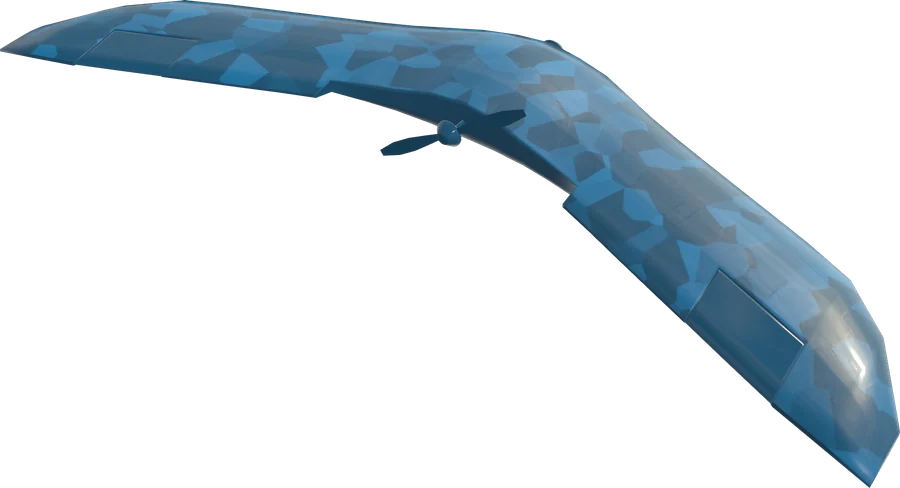
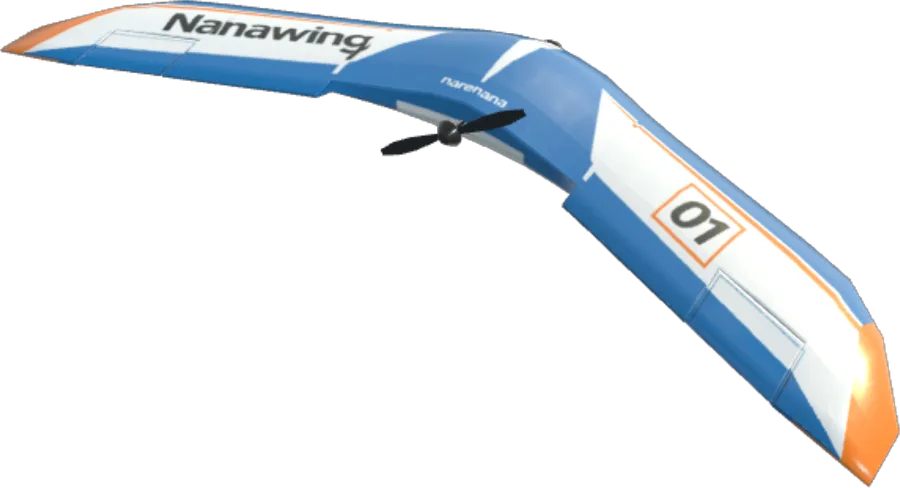
Refresh Nanawing One aircraft images with approved blue race livery

Changed region(s): [[0.0, 0.0, 1.0, 1.0]]

diff --git a/site/nanawing/aircraft/index.html b/site/nanawing/aircraft/index.html
@@ -1,8 +1,8 @@
-<!doctype html><html lang="en"><head><meta charset="utf-8"><script>if(location.hostname==='www.narenana.com'){var ga=document.createElement('script');ga.async=true;ga.src='https://www.googletagmanager.com/gtag/js?id=G-1KY518LPBH';document.head.appendChild(ga);window.dataLayer=window.dataLayer||[];function gtag(){dataLayer.push(arguments)}gtag('js',new Date());gtag('config','G-1KY518LPBH')}</script><meta name="viewport" content="width=device-width,initial-scale=1"><title>Nanawing aircraft | Pick your wing and fly it free | narenana</title><meta name="description" content="Fly free in your browser or on your phone: start on a trainer, thread the WUDFLY Spectre through giant oaks, or snap the TBS Chupito (Team BlackSheep) round at 360°/s."><meta name="robots" content="index,follow,max-image-preview:large"><link rel="canonical" href="https://www.narenana.com/nanawing/aircraft/"><meta name="theme-color" content="#087bc1"><link rel="icon" href="/assets/avatar.jpg?v=49424a6497"><meta property="og:type" content="website"><meta property="og:site_name" content="narenana"><meta property="og:title" content="Nanawing: fly the WUDFLY Spectre free"><meta property="og:description" content="Thread the 3D-printed, twin-motor WUDFLY Spectre through giant oaks, then try 5 more aircraft. Free in your browser or on your phone."><meta property="og:url" content="https://www.narenana.com/nanawing/aircraft/"><meta property="og:image" content="https://www.narenana.com/nanawing/aircraft/spectre-share-v2.jpg"><meta name="twitter:card" content="summary_large_image"><meta name="twitter:title" content="Nanawing: fly the WUDFLY Spectre free"><meta name="twitter:description" content="Thread the 3D-printed, twin-motor WUDFLY Spectre through giant oaks, then try 5 more aircraft. Free in your browser or on your phone."><meta name="twitter:image" content="https://www.narenana.com/nanawing/aircraft/spectre-share-v2.jpg"><meta property="og:image:alt" content="The WUDFLY Spectre, a white and yellow twin-motor wing, on a blue card that reads: Fly the WUDFLY Spectre. Thread it through giant oaks, then race it on Estate Run."><meta name="twitter:image:alt" content="The WUDFLY Spectre, a white and yellow twin-motor wing, on a blue card that reads: Fly the WUDFLY Spectre. Thread it through giant oaks, then race it on Estate Run."><link rel="stylesheet" href="/assets/family/fonts.css?v=c848c473a8"><link rel="stylesheet" href="/assets/editorial.css?v=f64f49da02"><link rel="stylesheet" href="/assets/family/shell.css?v=dfbc6fd384"><script type="application/ld+json">{"@context":"https://schema.org","@graph":[{"@type":"WebPage","@id":"https://www.narenana.com/nanawing/aircraft/","url":"https://www.narenana.com/nanawing/aircraft/","name":"Nanawing aircraft | Pick your wing and fly it free","description":"Fly free in your browser or on your phone: start on a trainer, thread the WUDFLY Spectre through giant oaks, or snap the TBS Chupito (Team BlackSheep) round at 360°/s.","isPartOf":{"@id":"https://www.narenana.com/#website"},"about":{"@id":"https://sim.narenana.com/#app"}},{"@type":"BreadcrumbList","itemListElement":[{"@type":"ListItem","position":1,"name":"Home","item":"https://www.narenana.com/"},{"@type":"ListItem","position":2,"name":"Nanawing aircraft","item":"https://www.narenana.com/nanawing/aircraft/"}]},{"@type":"ItemList","name":"Nanawing aircraft","itemListElement":[{"@type":"ListItem","position":1,"name":"WUDFLY Spectre","url":"https://www.narenana.com/nanawing/aircraft/#spectre","image":"https://www.narenana.com/assets/nanawing/aircraft/spectre-photo-1200.webp?v=4365a38855"},{"@type":"ListItem","position":2,"name":"Nanawing One","url":"https://www.narenana.com/nanawing/aircraft/#desertwing","image":"https://www.narenana.com/assets/nanawing/aircraft/desertwing-1400.webp?v=2f3e75815e"},{"@type":"ListItem","position":3,"name":"Morok UAV","url":"https://www.narenana.com/nanawing/aircraft/#morok","image":"https://www.narenana.com/assets/nanawing/aircraft/morok-1400.webp?v=7be7a0a8c3"},{"@type":"ListItem","position":4,"name":"Sukhoi S-70 Okhotnik","url":"https://www.narenana.com/nanawing/aircraft/#sukhoi","image":"https://www.narenana.com/assets/nanawing/aircraft/sukhoi-1400.webp?v=fbcd52112d"},{"@type":"ListItem","position":5,"name":"TBS Chupito","url":"https://www.narenana.com/nanawing/aircraft/#chupito","image":"https://www.narenana.com/assets/nanawing/aircraft/chupito-1400.webp?v=29c97fc30d"},{"@type":"ListItem","position":6,"name":"Darkwing","url":"https://www.narenana.com/nanawing/aircraft/#darkwing","image":"https://www.narenana.com/assets/nanawing/aircraft/darkwing-1400.webp?v=8d6f057a6d"}]},{"@type":"FAQPage","mainEntity":[{"@type":"Question","name":"How does this help me at the RC field?","acceptedAnswer":{"@type":"Answer","text":"Practise stick inputs, throttle management and planning your turns, and feel how different aircraft respond."}},{"@type":"Question","name":"Which Nanawing aircraft should I fly first?","acceptedAnswer":{"@type":"Answer","text":"Start with the Nanawing One if you are learning the controls. Try the WUDFLY Spectre for tight gaps and yaw. Move to the Morok and Sukhoi to feel how more speed changes your timing, to the TBS Chupito for the quickest roll in the hangar, and to the Darkwing for speed that builds in a hurry. Every aircraft is free, so you can try them all."}},{"@type":"Question","name":"Are the WUDFLY Spectre, the TBS Chupito and the Darkwing in Nanawing the real aircraft?","acceptedAnswer":{"@type":"Answer","text":"No. They're our recreations of WUDFLY's, Team BlackSheep's and Anirudh's wings. The WUDFLY Spectre keeps the real wing's 600mm span, twin motors and white and yellow colours; the TBS Chupito keeps its 800mm span and single pusher prop; the Darkwing keeps its glossy black 3D-printed airframe and twin counter-rotating props. Their handling is a simulator approximation, and the TBS Chupito's is not TBS flight data; the Darkwing's is tuned from flights of the real aircraft. WUDFLY designs and sells the real Spectre at wudfly.com, Team BlackSheep sells the real Chupito at team-blacksheep.com, and Anirudh designed the real Darkwing (instagram.com/anirud.aero)."}},{"@type":"Question","name":"Which aircraft race which course?","acceptedAnswer":{"@type":"Answer","text":"All 6 aircraft race Windmill Run and River Run on the Island, and Tunnel Run and Pyramid Run in the Desert. Take the WUDFLY Spectre or the TBS Chupito to Parkland for Estate Run. Race the pilots flying your wing: set a time, see where you rank, then go back and beat it."}},{"@type":"Question","name":"Do I need a gamepad or RC radio?","acceptedAnswer":{"@type":"Answer","text":"No. All 6 fly on a keyboard or on your phone's thumb sticks. A gamepad or USB RC radio works too: plug it in and set it up in the Hangar's Controls tab. To yaw the WUDFLY Spectre, use a gamepad, an RC radio or your phone's left stick."}}]}]}</script><link rel="stylesheet" href="/assets/nanawing-aircraft.css?v=862eb507d2"></head><body><a class="skip" href="#main">Skip to content</a><header class="nn-header"><div class="nn-bar"><a class="nn-brand" href="/" aria-label="narenana home"><img src="/assets/family/avatar.jpg?v=49424a6497" width="40" height="40" alt="">narenana<span>.</span></a><nav class="nn-desktop" aria-label="Products"><a href="https://sim.narenana.com/"><span>Nanawing</span><small>FPV simulator</small></a><a href="https://nanawing2.narenana.com/"><span>Nanawing 2</span><small>Line-of-sight simulator</small></a><a href="/wings/"><span>Wings</span><small>Compare RC plane prices</small></a><a href="/log-viewer/"><span>Log viewer</span><small>Replay your flight logs</small></a></nav><a class="nn-contact" href="/#contact">Get in touch ↗</a><details class="nn-mobile"><summary>Menu</summary><nav aria-label="Products"><a href="https://sim.narenana.com/"><span>Nanawing</span><small>FPV simulator</small></a><a href="https://nanawing2.narenana.com/"><span>Nanawing 2</span><small>Line-of-sight simulator</small></a><a href="/wings/"><span>Wings</span><small>Compare RC plane prices</small></a><a href="/log-viewer/"><span>Log viewer</span><small>Replay your flight logs</small></a><a href="/#contact"><span>Get in touch ↗</span><small>Meet the pilot</small></a></nav></details></div></header><main id="main"><div class="ac-page">
+<!doctype html><html lang="en"><head><meta charset="utf-8"><script>if(location.hostname==='www.narenana.com'){var ga=document.createElement('script');ga.async=true;ga.src='https://www.googletagmanager.com/gtag/js?id=G-1KY518LPBH';document.head.appendChild(ga);window.dataLayer=window.dataLayer||[];function gtag(){dataLayer.push(arguments)}gtag('js',new Date());gtag('config','G-1KY518LPBH')}</script><meta name="viewport" content="width=device-width,initial-scale=1"><title>Nanawing aircraft | Pick your wing and fly it free | narenana</title><meta name="description" content="Fly free in your browser or on your phone: start on a trainer, thread the WUDFLY Spectre through giant oaks, or snap the TBS Chupito (Team BlackSheep) round at 360°/s."><meta name="robots" content="index,follow,max-image-preview:large"><link rel="canonical" href="https://www.narenana.com/nanawing/aircraft/"><meta name="theme-color" content="#087bc1"><link rel="icon" href="/assets/avatar.jpg?v=49424a6497"><meta property="og:type" content="website"><meta property="og:site_name" content="narenana"><meta property="og:title" content="Nanawing: fly the WUDFLY Spectre free"><meta property="og:description" content="Thread the 3D-printed, twin-motor WUDFLY Spectre through giant oaks, then try 5 more aircraft. Free in your browser or on your phone."><meta property="og:url" content="https://www.narenana.com/nanawing/aircraft/"><meta property="og:image" content="https://www.narenana.com/nanawing/aircraft/spectre-share-v2.jpg"><meta name="twitter:card" content="summary_large_image"><meta name="twitter:title" content="Nanawing: fly the WUDFLY Spectre free"><meta name="twitter:description" content="Thread the 3D-printed, twin-motor WUDFLY Spectre through giant oaks, then try 5 more aircraft. Free in your browser or on your phone."><meta name="twitter:image" content="https://www.narenana.com/nanawing/aircraft/spectre-share-v2.jpg"><meta property="og:image:alt" content="The WUDFLY Spectre, a white and yellow twin-motor wing, on a blue card that reads: Fly the WUDFLY Spectre. Thread it through giant oaks, then race it on Estate Run."><meta name="twitter:image:alt" content="The WUDFLY Spectre, a white and yellow twin-motor wing, on a blue card that reads: Fly the WUDFLY Spectre. Thread it through giant oaks, then race it on Estate Run."><link rel="stylesheet" href="/assets/family/fonts.css?v=c848c473a8"><link rel="stylesheet" href="/assets/editorial.css?v=f64f49da02"><link rel="stylesheet" href="/assets/family/shell.css?v=dfbc6fd384"><script type="application/ld+json">{"@context":"https://schema.org","@graph":[{"@type":"WebPage","@id":"https://www.narenana.com/nanawing/aircraft/","url":"https://www.narenana.com/nanawing/aircraft/","name":"Nanawing aircraft | Pick your wing and fly it free","description":"Fly free in your browser or on your phone: start on a trainer, thread the WUDFLY Spectre through giant oaks, or snap the TBS Chupito (Team BlackSheep) round at 360°/s.","isPartOf":{"@id":"https://www.narenana.com/#website"},"about":{"@id":"https://sim.narenana.com/#app"}},{"@type":"BreadcrumbList","itemListElement":[{"@type":"ListItem","position":1,"name":"Home","item":"https://www.narenana.com/"},{"@type":"ListItem","position":2,"name":"Nanawing aircraft","item":"https://www.narenana.com/nanawing/aircraft/"}]},{"@type":"ItemList","name":"Nanawing aircraft","itemListElement":[{"@type":"ListItem","position":1,"name":"WUDFLY Spectre","url":"https://www.narenana.com/nanawing/aircraft/#spectre","image":"https://www.narenana.com/assets/nanawing/aircraft/spectre-photo-1200.webp?v=4365a38855"},{"@type":"ListItem","position":2,"name":"Nanawing One","url":"https://www.narenana.com/nanawing/aircraft/#desertwing","image":"https://www.narenana.com/assets/nanawing/aircraft/desertwing-1400.webp?v=f5a654329e"},{"@type":"ListItem","position":3,"name":"Morok UAV","url":"https://www.narenana.com/nanawing/aircraft/#morok","image":"https://www.narenana.com/assets/nanawing/aircraft/morok-1400.webp?v=7be7a0a8c3"},{"@type":"ListItem","position":4,"name":"Sukhoi S-70 Okhotnik","url":"https://www.narenana.com/nanawing/aircraft/#sukhoi","image":"https://www.narenana.com/assets/nanawing/aircraft/sukhoi-1400.webp?v=fbcd52112d"},{"@type":"ListItem","position":5,"name":"TBS Chupito","url":"https://www.narenana.com/nanawing/aircraft/#chupito","image":"https://www.narenana.com/assets/nanawing/aircraft/chupito-1400.webp?v=29c97fc30d"},{"@type":"ListItem","position":6,"name":"Darkwing","url":"https://www.narenana.com/nanawing/aircraft/#darkwing","image":"https://www.narenana.com/assets/nanawing/aircraft/darkwing-1400.webp?v=8d6f057a6d"}]},{"@type":"FAQPage","mainEntity":[{"@type":"Question","name":"How does this help me at the RC field?","acceptedAnswer":{"@type":"Answer","text":"Practise stick inputs, throttle management and planning your turns, and feel how different aircraft respond."}},{"@type":"Question","name":"Which Nanawing aircraft should I fly first?","acceptedAnswer":{"@type":"Answer","text":"Start with the Nanawing One if you are learning the controls. Try the WUDFLY Spectre for tight gaps and yaw. Move to the Morok and Sukhoi to feel how more speed changes your timing, to the TBS Chupito for the quickest roll in the hangar, and to the Darkwing for speed that builds in a hurry. Every aircraft is free, so you can try them all."}},{"@type":"Question","name":"Are the WUDFLY Spectre, the TBS Chupito and the Darkwing in Nanawing the real aircraft?","acceptedAnswer":{"@type":"Answer","text":"No. They're our recreations of WUDFLY's, Team BlackSheep's and Anirudh's wings. The WUDFLY Spectre keeps the real wing's 600mm span, twin motors and white and yellow colours; the TBS Chupito keeps its 800mm span and single pusher prop; the Darkwing keeps its glossy black 3D-printed airframe and twin counter-rotating props. Their handling is a simulator approximation, and the TBS Chupito's is not TBS flight data; the Darkwing's is tuned from flights of the real aircraft. WUDFLY designs and sells the real Spectre at wudfly.com, Team BlackSheep sells the real Chupito at team-blacksheep.com, and Anirudh designed the real Darkwing (instagram.com/anirud.aero)."}},{"@type":"Question","name":"Which aircraft race which course?","acceptedAnswer":{"@type":"Answer","text":"All 6 aircraft race Windmill Run and River Run on the Island, and Tunnel Run and Pyramid Run in the Desert. Take the WUDFLY Spectre or the TBS Chupito to Parkland for Estate Run. Race the pilots flying your wing: set a time, see where you rank, then go back and beat it."}},{"@type":"Question","name":"Do I need a gamepad or RC radio?","acceptedAnswer":{"@type":"Answer","text":"No. All 6 fly on a keyboard or on your phone's thumb sticks. A gamepad or USB RC radio works too: plug it in and set it up in the Hangar's Controls tab. To yaw the WUDFLY Spectre, use a gamepad, an RC radio or your phone's left stick."}}]}]}</script><link rel="stylesheet" href="/assets/nanawing-aircraft.css?v=862eb507d2"></head><body><a class="skip" href="#main">Skip to content</a><header class="nn-header"><div class="nn-bar"><a class="nn-brand" href="/" aria-label="narenana home"><img src="/assets/family/avatar.jpg?v=49424a6497" width="40" height="40" alt="">narenana<span>.</span></a><nav class="nn-desktop" aria-label="Products"><a href="https://sim.narenana.com/"><span>Nanawing</span><small>FPV simulator</small></a><a href="https://nanawing2.narenana.com/"><span>Nanawing 2</span><small>Line-of-sight simulator</small></a><a href="/wings/"><span>Wings</span><small>Compare RC plane prices</small></a><a href="/log-viewer/"><span>Log viewer</span><small>Replay your flight logs</small></a></nav><a class="nn-contact" href="/#contact">Get in touch ↗</a><details class="nn-mobile"><summary>Menu</summary><nav aria-label="Products"><a href="https://sim.narenana.com/"><span>Nanawing</span><small>FPV simulator</small></a><a href="https://nanawing2.narenana.com/"><span>Nanawing 2</span><small>Line-of-sight simulator</small></a><a href="/wings/"><span>Wings</span><small>Compare RC plane prices</small></a><a href="/log-viewer/"><span>Log viewer</span><small>Replay your flight logs</small></a><a href="/#contact"><span>Get in touch ↗</span><small>Meet the pilot</small></a></nav></details></div></header><main id="main"><div class="ac-page">
 <nav class="crumbs" aria-label="Breadcrumb"><a href="/">Home</a> / Nanawing aircraft</nav>
 <div class="ac-hero"><span class="eyebrow">NANAWING / FREE FPV SIMULATOR</span><h1>Pick your wing<br><span>and fly it free.</span></h1><p class="lede">Thread the 3D-printed WUDFLY Spectre through giant oaks, snap the TBS Chupito round at 360°/s, open the Sukhoi up to 323 km/h, carry the Darkwing's speed through wide turns, or settle in on a forgiving trainer before your next day at the field. All 6 fly free in your browser, on a laptop or on your phone. No install, no login.</p>
 <div class="ac-actions"><a class="ac-btn" href="https://sim.narenana.com/?play&amp;aircraft=spectre" target="_blank" rel="noopener">Start flying <span aria-hidden="true">↗</span></a><a class="ac-link" href="#compare">Compare the 6 aircraft <span aria-hidden="true">↓</span></a></div>
-<ul class="ac-lineup" aria-label="The 6 aircraft"><li><a href="#spectre"><img src="/assets/nanawing/aircraft/spectre-900.webp?v=7a7cc3f3dd" srcset="/assets/nanawing/aircraft/spectre-560.webp?v=c5f88ce574 560w, /assets/nanawing/aircraft/spectre-900.webp?v=7a7cc3f3dd 900w, /assets/nanawing/aircraft/spectre-1400.webp?v=3e78b52736 1400w" sizes="(max-width:859px) 46vw, 230px" alt="WUDFLY Spectre, a white and yellow twin-motor flying wing with SPECTRE and WUDFLY lettering" width="900" height="511" fetchpriority="high"><span class="ac-lineup-name">WUDFLY Spectre</span><span class="ac-lineup-role">Made for tight gaps</span></a></li><li><a href="#desertwing"><img src="/assets/nanawing/aircraft/desertwing-900.webp?v=6c56022542" srcset="/assets/nanawing/aircraft/desertwing-560.webp?v=a258e83f11 560w, /assets/nanawing/aircraft/desertwing-900.webp?v=6c56022542 900w, /assets/nanawing/aircraft/desertwing-1400.webp?v=2f3e75815e 1400w" sizes="(max-width:859px) 46vw, 230px" alt="Nanawing One, a blue flying wing with a single pusher prop" width="900" height="488" fetchpriority="high"><span class="ac-lineup-name">Nanawing One</span><span class="ac-lineup-role">Forgiving trainer</span></a></li><li><a href="#morok"><img src="/assets/nanawing/aircraft/morok-900.webp?v=6a83b1f494" srcset="/assets/nanawing/aircraft/morok-560.webp?v=bbaafd7eb1 560w, /assets/nanawing/aircraft/morok-900.webp?v=6a83b1f494 900w, /assets/nanawing/aircraft/morok-1400.webp?v=7be7a0a8c3 1400w" sizes="(max-width:859px) 46vw, 230px" alt="Morok UAV, a silver drone with a V-tail and a pusher prop" width="900" height="463" loading="lazy" decoding="async"><span class="ac-lineup-name">Morok UAV</span><span class="ac-lineup-role">Step up from the One</span></a></li><li><a href="#sukhoi"><img src="/assets/nanawing/aircraft/sukhoi-900.webp?v=2dbaad485b" srcset="/assets/nanawing/aircraft/sukhoi-560.webp?v=9e1e25080a 560w, /assets/nanawing/aircraft/sukhoi-900.webp?v=2dbaad485b 900w, /assets/nanawing/aircraft/sukhoi-1400.webp?v=fbcd52112d 1400w" sizes="(max-width:859px) 46vw, 230px" alt="Sukhoi S-70 Okhotnik, a grey, angular flying wing" width="900" height="675" loading="lazy" decoding="async"><span class="ac-lineup-name">Sukhoi S-70 Okhotnik</span><span class="ac-lineup-role">Fastest in the hangar</span></a></li><li><a href="#chupito"><img src="/assets/nanawing/aircraft/chupito-900.webp?v=db683fad38" srcset="/assets/nanawing/aircraft/chupito-560.webp?v=b57ab305ad 560w, /assets/nanawing/aircraft/chupito-900.webp?v=db683fad38 900w, /assets/nanawing/aircraft/chupito-1400.webp?v=29c97fc30d 1400w" sizes="(max-width:859px) 46vw, 230px" alt="TBS Chupito, a dark grey flying wing with a single fin, a red pusher prop and white logos and lettering" width="900" height="440" loading="lazy" decoding="async"><span class="ac-lineup-name">TBS Chupito</span><span class="ac-lineup-role">Quickest roll in the hangar</span></a></li><li><a href="#darkwing"><img src="/assets/nanawing/aircraft/darkwing-900.webp?v=65707d042b" srcset="/assets/nanawing/aircraft/darkwing-560.webp?v=f61c99f7dd 560w, /assets/nanawing/aircraft/darkwing-900.webp?v=65707d042b 900w, /assets/nanawing/aircraft/darkwing-1400.webp?v=8d6f057a6d 1400w" sizes="(max-width:859px) 46vw, 230px" alt="Darkwing, a glossy black 3D-printed flying wing with two blue pusher props" width="900" height="555" loading="lazy" decoding="async"><span class="ac-lineup-name">Darkwing</span><span class="ac-lineup-role">Built for fast passes</span></a></li></ul></div>
+<ul class="ac-lineup" aria-label="The 6 aircraft"><li><a href="#spectre"><img src="/assets/nanawing/aircraft/spectre-900.webp?v=7a7cc3f3dd" srcset="/assets/nanawing/aircraft/spectre-560.webp?v=c5f88ce574 560w, /assets/nanawing/aircraft/spectre-900.webp?v=7a7cc3f3dd 900w, /assets/nanawing/aircraft/spectre-1400.webp?v=3e78b52736 1400w" sizes="(max-width:859px) 46vw, 230px" alt="WUDFLY Spectre, a white and yellow twin-motor flying wing with SPECTRE and WUDFLY lettering" width="900" height="511" fetchpriority="high"><span class="ac-lineup-name">WUDFLY Spectre</span><span class="ac-lineup-role">Made for tight gaps</span></a></li><li><a href="#desertwing"><img src="/assets/nanawing/aircraft/desertwing-900.webp?v=9b769b9d66" srcset="/assets/nanawing/aircraft/desertwing-560.webp?v=13810c0ac0 560w, /assets/nanawing/aircraft/desertwing-900.webp?v=9b769b9d66 900w, /assets/nanawing/aircraft/desertwing-1400.webp?v=f5a654329e 1400w" sizes="(max-width:859px) 46vw, 230px" alt="Nanawing One, a blue flying wing with a single pusher prop" width="900" height="488" fetchpriority="high"><span class="ac-lineup-name">Nanawing One</span><span class="ac-lineup-role">Forgiving trainer</span></a></li><li><a href="#morok"><img src="/assets/nanawing/aircraft/morok-900.webp?v=6a83b1f494" srcset="/assets/nanawing/aircraft/morok-560.webp?v=bbaafd7eb1 560w, /assets/nanawing/aircraft/morok-900.webp?v=6a83b1f494 900w, /assets/nanawing/aircraft/morok-1400.webp?v=7be7a0a8c3 1400w" sizes="(max-width:859px) 46vw, 230px" alt="Morok UAV, a silver drone with a V-tail and a pusher prop" width="900" height="463" loading="lazy" decoding="async"><span class="ac-lineup-name">Morok UAV</span><span class="ac-lineup-role">Step up from the One</span></a></li><li><a href="#sukhoi"><img src="/assets/nanawing/aircraft/sukhoi-900.webp?v=2dbaad485b" srcset="/assets/nanawing/aircraft/sukhoi-560.webp?v=9e1e25080a 560w, /assets/nanawing/aircraft/sukhoi-900.webp?v=2dbaad485b 900w, /assets/nanawing/aircraft/sukhoi-1400.webp?v=fbcd52112d 1400w" sizes="(max-width:859px) 46vw, 230px" alt="Sukhoi S-70 Okhotnik, a grey, angular flying wing" width="900" height="675" loading="lazy" decoding="async"><span class="ac-lineup-name">Sukhoi S-70 Okhotnik</span><span class="ac-lineup-role">Fastest in the hangar</span></a></li><li><a href="#chupito"><img src="/assets/nanawing/aircraft/chupito-900.webp?v=db683fad38" srcset="/assets/nanawing/aircraft/chupito-560.webp?v=b57ab305ad 560w, /assets/nanawing/aircraft/chupito-900.webp?v=db683fad38 900w, /assets/nanawing/aircraft/chupito-1400.webp?v=29c97fc30d 1400w" sizes="(max-width:859px) 46vw, 230px" alt="TBS Chupito, a dark grey flying wing with a single fin, a red pusher prop and white logos and lettering" width="900" height="440" loading="lazy" decoding="async"><span class="ac-lineup-name">TBS Chupito</span><span class="ac-lineup-role">Quickest roll in the hangar</span></a></li><li><a href="#darkwing"><img src="/assets/nanawing/aircraft/darkwing-900.webp?v=65707d042b" srcset="/assets/nanawing/aircraft/darkwing-560.webp?v=f61c99f7dd 560w, /assets/nanawing/aircraft/darkwing-900.webp?v=65707d042b 900w, /assets/nanawing/aircraft/darkwing-1400.webp?v=8d6f057a6d 1400w" sizes="(max-width:859px) 46vw, 230px" alt="Darkwing, a glossy black 3D-printed flying wing with two blue pusher props" width="900" height="555" loading="lazy" decoding="async"><span class="ac-lineup-name">Darkwing</span><span class="ac-lineup-role">Built for fast passes</span></a></li></ul></div>
 <section class="ac-practice" aria-labelledby="practice-title"><h2 id="practice-title">Learn a new wing without a repair bill</h2><p>Learning a new wing is the fun part: how much stick it wants, when to ease off the throttle, how early to start a turn. The forgiving trainer, the nimble twin-motor WUDFLY Spectre, the quick-rolling TBS Chupito, the hard-accelerating Darkwing and the fast, heavy Sukhoi each give you something new to work on.</p><p>Try them all. Repeat a manoeuvre until it's clean, fly a new line or race a course, and when you crash, reset and go again. Plug in a gamepad or USB RC radio to practise on sticks, or start on the keyboard or your phone.</p></section>
 <section class="ac-compare" id="compare" aria-labelledby="compare-title"><h2 id="compare-title">Compare the 6 aircraft side by side</h2>
 <div class="ac-table-wrap" role="region" aria-labelledby="compare-title" tabindex="0"><table class="ac-table"><thead><tr><th scope="col">Aircraft</th><th scope="col">Top speed</th><th scope="col">Stall speed</th><th scope="col">Roll rate</th><th scope="col">Climb rate</th><th scope="col">Wingspan</th><th scope="col">Weight</th><th scope="col">Thrust</th><th scope="col">Battery</th></tr></thead>
@@ -23,7 +23,7 @@
 <ul class="ac-gallery"><li><img src="/assets/nanawing/aircraft/spectre-photo-4-900.webp?v=e0b9ac9647" srcset="/assets/nanawing/aircraft/spectre-photo-4-600.webp?v=c6710cbabb 600w, /assets/nanawing/aircraft/spectre-photo-4-900.webp?v=e0b9ac9647 900w" sizes="(max-width:600px) 46vw, 340px" alt="A pilot holding the WUDFLY Spectre by its fuselage in an open field, ready to launch" width="900" height="1200" loading="lazy" decoding="async"></li><li><img src="/assets/nanawing/aircraft/spectre-photo-6-1200.webp?v=5f9a172d30" srcset="/assets/nanawing/aircraft/spectre-photo-6-600.webp?v=71b3fd0734 600w, /assets/nanawing/aircraft/spectre-photo-6-1200.webp?v=5f9a172d30 1200w" sizes="(max-width:600px) 46vw, 340px" alt="A grey WUDFLY Spectre on a workbench in front of the WUDFLY logo" width="1200" height="900" loading="lazy" decoding="async"></li><li><img src="/assets/nanawing/aircraft/spectre-photo-8-1200.webp?v=b159b64256" srcset="/assets/nanawing/aircraft/spectre-photo-8-600.webp?v=ac65d943b5 600w, /assets/nanawing/aircraft/spectre-photo-8-1200.webp?v=b159b64256 1200w" sizes="(max-width:600px) 46vw, 340px" alt="Inside the WUDFLY Spectre: flight controller, receiver and wiring in the 3D-printed fuselage" width="1200" height="900" loading="lazy" decoding="async"></li></ul><p class="ac-note">Photos: WUDFLY, from wudfly.com</p>
 <h4>The real Spectre, flown by WUDFLY</h4><ul class="ac-videos"><li><a class="ac-yt" href="https://www.youtube.com/watch?v=MaVMHJFvd5g" data-yt="MaVMHJFvd5g" target="_blank" rel="noopener"><img src="https://i.ytimg.com/vi/MaVMHJFvd5g/hqdefault.jpg" alt="" width="480" height="360" loading="lazy" decoding="async"><span class="ac-yt-play" aria-hidden="true">▶</span><span class="sr-only">Play: Ride of the SPECTRE | Full FPV Flight</span></a><p class="ac-yt-title">Ride of the SPECTRE | Full FPV Flight</p></li><li><a class="ac-yt" href="https://www.youtube.com/watch?v=UwFGTptRYRU" data-yt="UwFGTptRYRU" target="_blank" rel="noopener"><img src="https://i.ytimg.com/vi/UwFGTptRYRU/hqdefault.jpg" alt="" width="480" height="360" loading="lazy" decoding="async"><span class="ac-yt-play" aria-hidden="true">▶</span><span class="sr-only">Play: 215g 3D-Printed FPV Wing Build Breakdown | WUDFLY SPECTRE</span></a><p class="ac-yt-title">215g 3D-Printed FPV Wing Build Breakdown | WUDFLY SPECTRE</p></li><li><a class="ac-yt" href="https://www.youtube.com/watch?v=vaqDeINMnJQ" data-yt="vaqDeINMnJQ" target="_blank" rel="noopener"><img src="https://i.ytimg.com/vi/vaqDeINMnJQ/hqdefault.jpg" alt="" width="480" height="360" loading="lazy" decoding="async"><span class="ac-yt-play" aria-hidden="true">▶</span><span class="sr-only">Play: 215g 3D Printed FPV Wing | DJI O4 Wide – WUDFLY Spectre</span></a><p class="ac-yt-title">215g 3D Printed FPV Wing | DJI O4 Wide – WUDFLY Spectre</p></li></ul></div></section>
 <section class="ac-craft ac-craft--flip" id="desertwing" aria-labelledby="desertwing-title">
-<figure class="ac-craft-img"><img src="/assets/nanawing/aircraft/desertwing-900.webp?v=6c56022542" srcset="/assets/nanawing/aircraft/desertwing-560.webp?v=a258e83f11 560w, /assets/nanawing/aircraft/desertwing-900.webp?v=6c56022542 900w, /assets/nanawing/aircraft/desertwing-1400.webp?v=2f3e75815e 1400w" sizes="(max-width:860px) 92vw, 520px" alt="Nanawing One, a blue flying wing with a single pusher prop" width="900" height="488" loading="lazy" decoding="async"></figure>
+<figure class="ac-craft-img"><img src="/assets/nanawing/aircraft/desertwing-900.webp?v=9b769b9d66" srcset="/assets/nanawing/aircraft/desertwing-560.webp?v=13810c0ac0 560w, /assets/nanawing/aircraft/desertwing-900.webp?v=9b769b9d66 900w, /assets/nanawing/aircraft/desertwing-1400.webp?v=f5a654329e 1400w" sizes="(max-width:860px) 92vw, 520px" alt="Nanawing One, a blue flying wing with a single pusher prop" width="900" height="488" loading="lazy" decoding="async"></figure>
 <div class="ac-craft-body"><span class="eyebrow">02 / FORGIVING TRAINER</span><h2 id="desertwing-title">Nanawing One</h2>
 <p class="ac-credit">Original model by narenana</p>
 <p>Start here. The Nanawing One has the lowest stall speed in the hangar and a quick roll, so it stays forgiving while you learn to hold a line, bank smoothly and work pitch and throttle together.</p><p>Once the basics click, the One still has 191 km/h of top speed, plenty for your first laps of Windmill Run.</p>
